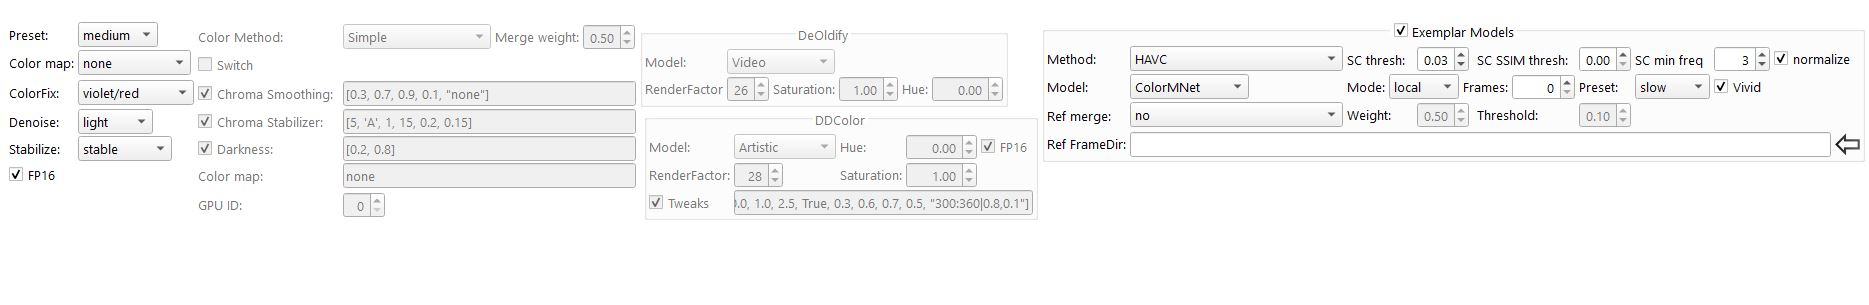
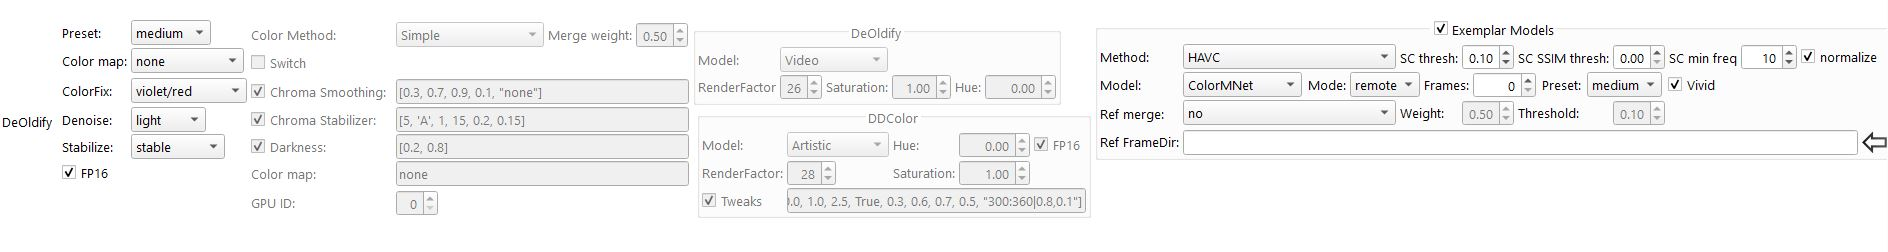
Update suggested settings for Hybrid

diff --git a/README.md b/README.md
@@ -27,10 +27,10 @@ with the version 4.0 of HAVC has been released a modified version of DDColor to 
 pip install vsddcolor-1.0.1-py3-none-any.whl.zip
 ```
 
-with the version 4.5 of HAVC has been introduced the support to ColorMNet. All the necessary packages to use ColorMNet are included in Hybrid's torch add-on package.  For a manual installation not using Hybrid, it is necessary to install all the packages reported in the project page of [ColorMNet](https://github.com/yyang181/colormnet). To simplify the installation,  in the release 4.5.0 of this filter is available as asset the spatial_correlation_sampler package compiled against CUDA 12.1 and python 3.12. To install it is necessary to unzip the following archive
+with the version 4.5 of HAVC has been introduced the support to ColorMNet. All the necessary packages to use ColorMNet are included in Hybrid's torch add-on package.  For a manual installation not using Hybrid, it is necessary to install all the packages reported in the project page of [ColorMNet](https://github.com/yyang181/colormnet). To simplify the installation,  in the release 4.5.0 of this filter is available as asset the spatial_correlation_sampler package compiled against CUDA 12.1 and python 3.12. To install it is necessary to unzip the following archive (using the nearest torch version available in the host system):
 
 ```
-spatial_correlation_sampler-0.5.0-py312-cp312-win_amd64.whl.zip 
+spatial_correlation_sampler-0.5.0-py312-cp312-win_amd64_torch-x.x.x.whl.zip 
 ```
 
 in the Library packages folder: .\Lib\site-packages\
@@ -347,7 +347,7 @@ Finally the flag **Reference frames only** can be used to export the reference f
 
 ## Coloring using Hybrid
 
-As stated previously the easiest way to colorize images with the HAVC filter it to use [Hybrid](https://www.selur.de/downloads). To simplify the usage has been introduced standard Presets that automatically apply all the filter's settings. A set of parameters that are able to provide a satisfactory colorization are the following:
+As stated previously the simplest way to colorize images with the HAVC filter it to use [Hybrid](https://www.selur.de/downloads). To simplify the usage has been introduced standard Presets that automatically apply all the filter's settings. A set of parameters that are able to provide a satisfactory colorization are the following:
 
 - **Preset:** medium (_fast_ will increase the speed with a little decrease in color accuracy)
 - **Color map:** none
@@ -357,13 +357,13 @@ As stated previously the easiest way to colorize images with the HAVC filter it 
 
 then enable the _Exemplar Models_ check box and set
 - **Method:** HAVC
-- **SC thresh:** 0.03
+- **SC thresh:** 0.10
 - **SC SSIM thresh:** 0.00
-- **SC min freq:** 3  
+- **SC min freq:** 10 (5 if is used the _local_ mode)  
 - **normalize:** checked
-- **Mode:** local
+- **Mode:** remote
 - **Frames:** 0 
-- **Preset:** slow (_medium_ will increase the speed with a little decrease in color accuracy)
+- **Preset:** medium (_slow_ will increase the color accuracy but the speed will decrease of 40%)
 - **Vivid:** checked 
 
 In the following picture are shown the suggested parameters: 
@@ -372,7 +372,7 @@ In the following picture are shown the suggested parameters:
 
 ## Conclusions
 
-In Summary **HAVC** is able to provide often a final colorized image that is better than the image obtained from the individual models, and can be considered an improvement respect to the current Models.  The suggested configuration for _video encoding_ is: 
+In Summary **HAVC** is able to provide often a final colorized image that is better than the image obtained from the individual models, and can be considered an improvement respect to the current Models.  It is suggested to use the settings described in the previous section, willing to use a custom configuration, the suggested setup for _video encoding_ is: 
 
 * **D+D**: DeOldify (with model _Video_ & render_factor = 24) + DDColor (with model _Artistic_ and render_factor = 24)
 
